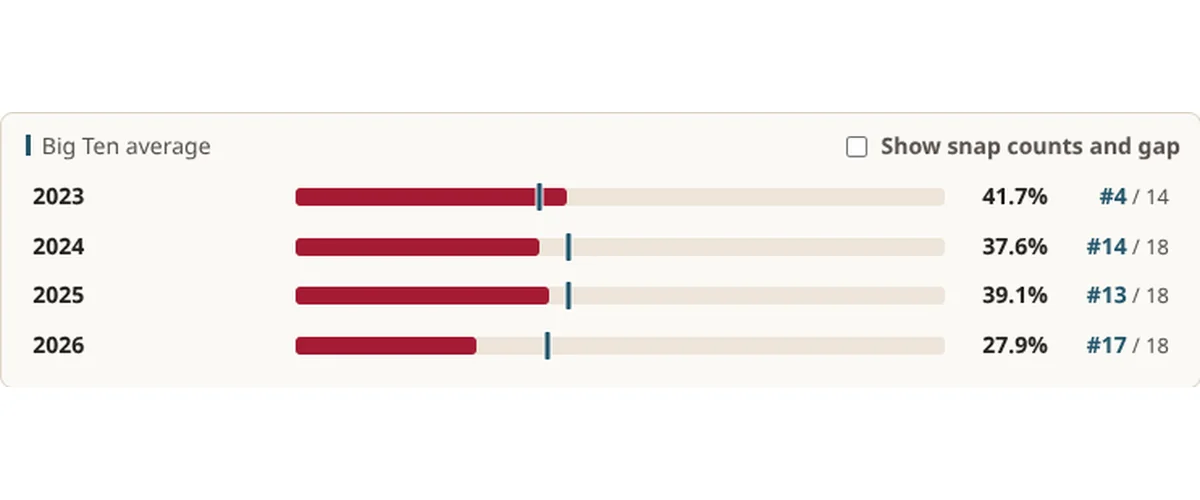
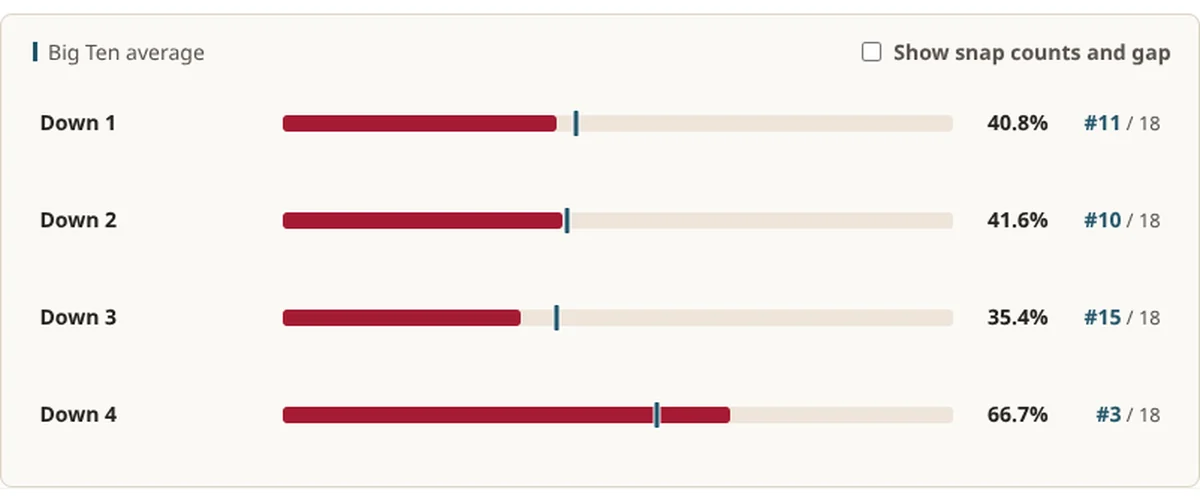
Add recruiting circle visibility and refresh dashboard previews

diff --git a/assets/recruiting/dashboard.js b/assets/recruiting/dashboard.js
@@ -32,8 +32,10 @@ for(let i=0;i<grid.length;i++){if(grid[i]<.001)continue;const t=Math.pow(Math.mi
 $('pool').textContent=fmt(mapped.length)+' / '+fmt(filtered.length);$('annual').textContent=fmt(viewCount/years);$('coverage').textContent=filtered.length?(mapped.length/filtered.length*100).toFixed(1)+'%':'—';$('peak').textContent=fmt(max);$('scaleNote').textContent=lockedPeak===null?'Scale follows visible region':'Color scale locked';return viewCount;}
 function campusVisible(s){const [x,y]=screen(s.xy);return x>=-50&&x<=W+50&&y>=-50&&y<=H+50;}
 function drawCircle(s){if(!sf.radius)return;const r=circle(s,sf.radius);ctx.beginPath();r.forEach((p,i)=>{let v=screen(world(...p));if(i)ctx.lineTo(...v);else ctx.moveTo(...v);});ctx.strokeStyle=s.color;ctx.lineWidth=selected&&s===selected?3.5:2;ctx.globalAlpha=.8;ctx.stroke();ctx.globalAlpha=1;}
-function drawSchools(){const mode=$('schoolMode').value,show=mode==='on'||mode==='auto'&&z>=5.5;const ss=show?schools.filter(s=>campusVisible(s)||s===selected):[];ss.forEach(drawCircle);for(const s of ss){const [x,y]=screen(s.xy);ctx.beginPath();ctx.arc(x,y,6,0,Math.PI*2);ctx.fillStyle=s.color;ctx.fill();ctx.strokeStyle='white';ctx.lineWidth=2;ctx.stroke();ctx.font='600 12px system-ui';ctx.lineWidth=4;ctx.strokeStyle='white';ctx.strokeText(s.name,x+10,y-7);ctx.fillStyle=s.color;ctx.fillText(s.name,x+10,y-7);hits.push({kind:'school',s,x,y});}
-$('zoomNote').textContent=show?`Campus circles: ${sf.radius} miles · ${yearsLabel()}`:'Zoom in to see campuses and distance circles';return ss;}
+function drawSchools(){const mode=$('schoolMode').value,show=mode==='on'||mode==='auto'&&z>=5.5;const ss=show?schools.filter(s=>campusVisible(s)||s===selected):[];const circles=$('circles').checked&&sf.radius>0;if(circles)ss.forEach(drawCircle);for(const s of ss){const [x,y]=screen(s.xy);ctx.beginPath();ctx.arc(x,y,6,0,Math.PI*2);ctx.fillStyle=s.color;ctx.fill();ctx.strokeStyle='white';ctx.lineWidth=2;ctx.stroke();ctx.font='600 12px system-ui';ctx.lineWidth=4;ctx.strokeStyle='white';ctx.strokeText(s.name,x+10,y-7);ctx.fillStyle=s.color;ctx.fillText(s.name,x+10,y-7);hits.push({kind:'school',s,x,y});}
+$('zoomNote').textContent=show
+  ? (circles?`Campus circles: ${sf.radius} miles`:'Campus markers')+' · '+yearsLabel()
+  : 'Zoom in to see campuses';return ss;}
 function drawRecruits(){if(z<6.5||!$('points').checked)return;const cities=new Map();for(const p of mapped){let [x,y]=screen(p.xy);if(x<0||x>W||y<0||y>H)continue;let key=p.lat+','+p.lon;if(!cities.has(key))cities.set(key,{x,y,ps:[]});cities.get(key).ps.push(p);}for(const c of cities.values()){ctx.beginPath();ctx.arc(c.x,c.y,Math.min(10,2.5+Math.sqrt(c.ps.length)),0,Math.PI*2);ctx.fillStyle='#5b1221';ctx.fill();ctx.strokeStyle='white';ctx.lineWidth=.7;ctx.stroke();hits.push({kind:'recruits',...c});}}
 function table(ss){if(!statCache)statCache=new Map();const tableSchools=ss.length?ss:selected?[selected]:[];const stats=tableSchools.map(s=>{if(!statCache.has(s.name))statCache.set(s.name,schoolStats(s));return statCache.get(s.name);}).sort((a,b)=>b.n-a.n);$('schoolRows').innerHTML=stats.map(v=>`<tr><td><button data-school="${esc(v.school.name)}">${esc(v.school.name)}</button></td><td>${fmt(v.per)}</td><td>${fmt(v.captured/years)}</td><td>${v.capture===null?'—':(v.capture*100).toFixed(1)+'%'}</td></tr>`).join('');$('detailTitle').textContent=`School access · ${sf.radius}-mile radius`;$('detailHint').textContent=stats.length?`All counts use ${yearsLabel()}. A recruit may fall inside multiple schools’ circles.`:'Campuses appear at regional zoom. You can also select a school or choose “Always show.”';}
 function render(){if(!W||!H)return;ctx.clearRect(0,0,W,H);ctx.fillStyle='#e9eff4';ctx.fillRect(0,0,W,H);statePaths();ctx.fillStyle='#faf9ef';ctx.fill();density();statePaths();ctx.strokeStyle='#8f9ba6';ctx.lineWidth=.7;ctx.stroke();hits=[];drawRecruits();const ss=drawSchools();table(ss);drawScale();saveHash();}
@@ -91,15 +93,15 @@ canvas.addEventListener('pointermove',e=>{if(lastTouches.has(e.pointerId)){const
 canvas.addEventListener('pointerup',e=>{if(drag&&!drag.moved){const r=canvas.getBoundingClientRect(),h=hit(e.clientX-r.left,e.clientY-r.top);if(h?.kind==='school')showSchool(h.s);else if(h)showPlayers(h.ps);}lastTouches.delete(e.pointerId);if(!lastTouches.size)drag=null;});canvas.addEventListener('pointercancel',e=>{lastTouches.delete(e.pointerId);drag=null;});canvas.addEventListener('pointerleave',()=>{$('tooltip').hidden=true;});
 canvas.addEventListener('keydown',e=>{const moves={ArrowLeft:[-.15,0],ArrowRight:[.15,0],ArrowUp:[0,-.15],ArrowDown:[0,.15]};if(moves[e.key]){e.preventDefault();cx+=moves[e.key][0]*W/(256*2**z);cy+=moves[e.key][1]*H/(256*2**z);renderSoon();}else if(e.key==='+'||e.key==='=')zoom(.5);else if(e.key==='-')zoom(-.5);});
 $('plus').onclick=()=>zoom(.6);$('minus').onclick=()=>zoom(-.6);$('reset').onclick=()=>{$('region').value='us';goPreset('us');};$('region').onchange=()=>goPreset($('region').value);$('school').onchange=()=>focusSchool($('school').value);$('schoolRows').onclick=e=>{if(e.target.dataset.school)focusSchool(e.target.dataset.school);};
-for(const id of ['threshold','first','last','bandwidth','radius','inside'])$(id).onchange=readFilters;for(const id of ['schoolMode','points'])$(id).onchange=renderSoon;$('scale').onchange=()=>{lockedPeak=$('scale').value==='lock'?currentPeak:null;renderSoon();};
+for(const id of ['threshold','first','last','bandwidth','radius','inside'])$(id).onchange=readFilters;for(const id of ['schoolMode','points','circles'])$(id).onchange=renderSoon;$('scale').onchange=()=>{lockedPeak=$('scale').value==='lock'?currentPeak:null;renderSoon();};
 $('download').onclick=()=>{const fields=['class_year','player_name','national_rank','composite_rating','composite_stars','position','high_school_name','listed_city','listed_state','latitude','longitude','commitment_school','player_url'];const quote=v=>'"'+String(v??'').replaceAll('"','""')+'"';const text=[fields,...filtered.map(p=>[p.year,p.name,p.rank,p.rating,p.stars,p.position,p.hs,p.city,p.state,p.lat,p.lon,p.commit,p.url])].map(r=>r.map(quote).join(',')).join('\r\n');const a=document.createElement('a');a.href=URL.createObjectURL(new Blob([text],{type:'text/csv;charset=utf-8'}));a.download='recruits_'+sf.type+'_'+yearsLabel()+'.csv';a.click();setTimeout(()=>URL.revokeObjectURL(a.href),1000);$('message').textContent='Exported '+filtered.length+' filtered recruits (all regions).';};
-function saveHash(){const p=new URLSearchParams({t:sf.type,a:sf.first,b:sf.last,z:z.toFixed(2),lon:inverse(cx,cy)[0].toFixed(4),lat:inverse(cx,cy)[1].toFixed(4),r:sf.radius,s:sf.school,i:sf.inside?'1':'0',bw:sf.bandwidth,c:$('schoolMode').value,p:$('points').checked?'1':'0',sc:$('scale').value,pk:lockedPeak===null?'':lockedPeak.toFixed(4)});history.replaceState(null,'','#'+p);}
+function saveHash(){const p=new URLSearchParams({t:sf.type,a:sf.first,b:sf.last,z:z.toFixed(2),lon:inverse(cx,cy)[0].toFixed(4),lat:inverse(cx,cy)[1].toFixed(4),r:sf.radius,s:sf.school,i:sf.inside?'1':'0',bw:sf.bandwidth,c:$('schoolMode').value,circles:$('circles').checked?'1':'0',p:$('points').checked?'1':'0',sc:$('scale').value,pk:lockedPeak===null?'':lockedPeak.toFixed(4)});history.replaceState(null,'','#'+p);}
 $('reset-filters').onclick=()=>{
   for(const [id,value] of Object.entries({threshold:'blue',first:'2010',last:'2026',bandwidth:'25',radius:'100',school:'',scale:'auto',schoolMode:'auto',region:'us'})) $(id).value=value;
-  $('inside').checked=false;$('points').checked=true;
+  $('inside').checked=false;$('points').checked=true;$('circles').checked=true;
   readFilters();goPreset('us');
 };
 $('share').onclick=async()=>{try{await navigator.clipboard.writeText(location.href);$('message').textContent='View link copied.';}catch{window.prompt('Copy view link',location.href);}};
-function restore(){let p=new URLSearchParams(location.hash.slice(1));const opts={threshold:p.get('t'),first:p.get('a'),last:p.get('b'),radius:p.get('r'),school:p.get('s'),bandwidth:p.get('bw'),schoolMode:p.get('c')};for(const [id,value]of Object.entries(opts))if(value!==null&&[...$(id).options].some(o=>o.value===value))$(id).value=value;$('inside').checked=p.get('i')==='1';if(p.has('p'))$('points').checked=p.get('p')==='1';if(p.has('z')&&p.has('lon')&&p.has('lat')&&[p.get('z'),p.get('lon'),p.get('lat')].every(v=>Number.isFinite(+v))){z=Math.max(2,Math.min(11,+p.get('z')));[cx,cy]=world(+p.get('lon'),+p.get('lat'));}else{const rect=canvas.getBoundingClientRect();z=3.5+Math.log2(Math.max(.45,rect.width/1100));}}
+function restore(){let p=new URLSearchParams(location.hash.slice(1));const opts={threshold:p.get('t'),first:p.get('a'),last:p.get('b'),radius:p.get('r'),school:p.get('s'),bandwidth:p.get('bw'),schoolMode:p.get('c')};for(const [id,value]of Object.entries(opts))if(value!==null&&[...$(id).options].some(o=>o.value===value))$(id).value=value;$('inside').checked=p.get('i')==='1';$('circles').checked=p.get('circles')!=='0';if(p.has('p'))$('points').checked=p.get('p')==='1';if(p.has('z')&&p.has('lon')&&p.has('lat')&&[p.get('z'),p.get('lon'),p.get('lat')].every(v=>Number.isFinite(+v))){z=Math.max(2,Math.min(11,+p.get('z')));[cx,cy]=world(+p.get('lon'),+p.get('lat'));}else{const rect=canvas.getBoundingClientRect();z=3.5+Math.log2(Math.max(.45,rect.width/1100));}}
 const savedScale=new URLSearchParams(location.hash.slice(1));restore();readFilters();if(savedScale.get('sc')==='lock'&&+savedScale.get('pk')>0){lockedPeak=+savedScale.get('pk');$('scale').value='lock';}new ResizeObserver(resize).observe(canvas);window.addEventListener('hashchange',()=>{restore();readFilters();});
 })();

diff --git a/assets/recruiting/dashboard.html b/assets/recruiting/dashboard.html
@@ -2,7 +2,7 @@
 <header><a href="../../" target="_top" class="brand">TERRAPINALYTICS</a><h1>Recruiting geography</h1><span>2010–2026</span></header>
 <main><aside><div class="section"><label for="threshold">Recruiting threshold</label><select id="threshold"><option value="blue">4★+ bluechips</option><option value="five">5★ only</option><option value="100">Top 100</option><option value="300">Top 300</option><option value="500">Top 500</option><option value="1000">Top 1000</option></select><div class="two"><label>First class<select id="first"></select></label><label>Last class<select id="last"></select></label></div></div>
 <div class="section"><label for="region">Go to region</label><select id="region"><option value="us">United States</option><option value="dmv">DC / Maryland / Virginia</option><option value="nc">North Carolina</option><option value="texas">Texas</option><option value="southeast">Southeast</option><option value="california">California</option><option value="hawaii">Hawaii</option><option value="alaska">Alaska</option></select></div>
-<div class="section"><label for="school">Focus on school</label><select id="school"><option value="">All power schools + Notre Dame</option></select><div id="school-distance" hidden><label for="radius">Circle radius</label><select id="radius"><option value="0">Campus markers only</option><option value="50">50 miles</option><option value="100" selected>100 miles</option><option value="150">150 miles</option><option value="250">250 miles</option><option value="500">500 miles</option></select><label class="check"><input type="checkbox" id="inside"> Filter recruits to selected school’s circle</label></div></div>
-<details class="section"><summary>Map settings</summary><label for="schoolMode">Power-school campuses & circles</label><select id="schoolMode"><option value="auto">Auto · show at regional zoom</option><option value="on">Always show</option><option value="off">Hide</option></select><label for="scale">Heat scale</label><select id="scale"><option value="auto">Hottest visible area</option><option value="lock">Lock current color scale</option></select><label for="bandwidth">Smoothing radius</label><select id="bandwidth"><option value="15">15 miles</option><option value="25" selected>25 miles</option><option value="50">50 miles</option></select><label class="check"><input type="checkbox" id="points" checked> Show recruit locations when zoomed in</label></details><div class="section"><button id="download">Download filtered data</button><button id="reset-filters" type="button">Reset</button><button id="share">Copy view link</button><output id="message" aria-live="polite"></output></div>
+<div class="section"><label class="check"><input type="checkbox" id="circles" checked> Show distance circles</label><label for="school">Focus on school</label><select id="school"><option value="">All power schools + Notre Dame</option></select><div id="school-distance" hidden><label for="radius">Circle radius</label><select id="radius"><option value="0">Campus markers only</option><option value="50">50 miles</option><option value="100" selected>100 miles</option><option value="150">150 miles</option><option value="250">250 miles</option><option value="500">500 miles</option></select><label class="check"><input type="checkbox" id="inside"> Filter recruits to selected school’s circle</label></div></div>
+<details class="section"><summary>Map settings</summary><label for="schoolMode">Power-school campuses</label><select id="schoolMode"><option value="auto">Auto · show at regional zoom</option><option value="on">Always show</option><option value="off">Hide</option></select><label for="scale">Heat scale</label><select id="scale"><option value="auto">Hottest visible area</option><option value="lock">Lock current color scale</option></select><label for="bandwidth">Smoothing radius</label><select id="bandwidth"><option value="15">15 miles</option><option value="25" selected>25 miles</option><option value="50">50 miles</option></select><label class="check"><input type="checkbox" id="points" checked> Show recruit locations when zoomed in</label></details><div class="section"><button id="download">Download filtered data</button><button id="reset-filters" type="button">Reset</button><button id="share">Copy view link</button><output id="message" aria-live="polite"></output></div>
 <details><summary>Data & method</summary><p>247Sports Composite, historical listings collected October 28, 2026. National-rank filters include ties. 4★+ uses displayed Composite stars.</p><p>Approximate listed high-school cities, not verified hometowns. Academy concentrations count where the school is located. Missing coordinates are excluded from heat and circle counts.</p><p>Heat shows smoothed annual recruits per 10,000 square miles. Gaussian smoothing uses the selected radius as its standard deviation, cut off at three times that radius. The color scale defaults to the hottest visible cell; lock it to compare regions. Density extends across coasts and borders.</p><p>Circles use great-circle miles, not driving distance or exclusive recruiting territory. School membership is fixed to the dataset’s 67 power programs plus Notre Dame; campuses are approximate. Overlapping circles count a recruit for each school.</p><p>Top-1000 coverage varies by class; these are observed records, not an assertion that every class has exactly 1,000 players. The 2026 class reflects the source snapshot. Data describe displayed destinations, not independently verified enrollment.</p></details></aside>
-<section class="workspace"><p class="related-article"><a href="../../articles/recruiting-distance.html" target="_top">Read the blue-chip recruiting distance analysis</a></p><div class="metrics" aria-live="polite"><div><strong id="pool">—</strong><span>mapped / filtered recruits</span></div><div><strong id="annual">—</strong><span>in view per year</span></div><div><strong id="coverage">—</strong><span>geocoded coverage</span></div></div><div id="mapbox"><canvas id="map" tabindex="0" role="application" aria-label="Interactive recruiting heat map. Drag to pan, scroll or use plus and minus to zoom. Arrow keys pan."></canvas><div class="mapbuttons"><button id="plus" aria-label="Zoom in">+</button><button id="minus" aria-label="Zoom out">−</button><button id="reset">US</button></div><div id="legend"><div class="ramp"></div><div class="ends"><span>0</span><strong id="peak">—</strong></div><span>recruits / year / 10,000 sq mi</span><small id="scaleNote">Scale follows visible region</small></div><div id="zoomNote">Zoom in to see campuses and distance circles</div><div id="tooltip" hidden></div></div><div class="below"><div><h2 id="detailTitle">School access</h2><p id="detailHint">Zoom in to compare the schools in view. Click a campus for recruit counts, or a recruit dot for player details.</p><div class="tablewrap"><table><thead><tr><th>School</th><th>Within circle / yr</th><th>To school / yr</th><th>Capture</th></tr></thead><tbody id="schoolRows"></tbody></table></div></div><div id="details"><h2>Explore the map</h2><p>Drag to pan. Scroll, pinch, double-click or use + / − to zoom. Power-school circles appear automatically at regional zoom.</p><p>Counts are annual averages across the selected classes. “To school” counts use displayed commitments among recruits inside that school’s circle.</p></div></div></section></main><script src="data.js"></script><script src="../peer-context.js"></script><script src="dashboard.js"></script></body></html>
+<section class="workspace"><p class="related-article"><a href="../../articles/recruiting-distance.html" target="_top">Read the blue-chip recruiting distance analysis</a></p><div class="metrics" aria-live="polite"><div><strong id="pool">—</strong><span>mapped / filtered recruits</span></div><div><strong id="annual">—</strong><span>in view per year</span></div><div><strong id="coverage">—</strong><span>geocoded coverage</span></div></div><div id="mapbox"><canvas id="map" tabindex="0" role="application" aria-label="Interactive recruiting heat map. Drag to pan, scroll or use plus and minus to zoom. Arrow keys pan."></canvas><div class="mapbuttons"><button id="plus" aria-label="Zoom in">+</button><button id="minus" aria-label="Zoom out">−</button><button id="reset">US</button></div><div id="legend"><div class="ramp"></div><div class="ends"><span>0</span><strong id="peak">—</strong></div><span>recruits / year / 10,000 sq mi</span><small id="scaleNote">Scale follows visible region</small></div><div id="zoomNote">Zoom in to see campuses and distance circles</div><div id="tooltip" hidden></div></div><div class="below"><div><h2 id="detailTitle">School access</h2><p id="detailHint">Zoom in to compare the schools in view. Click a campus for recruit counts, or a recruit dot for player details.</p><div class="tablewrap"><table><thead><tr><th>School</th><th>Within circle / yr</th><th>To school / yr</th><th>Capture</th></tr></thead><tbody id="schoolRows"></tbody></table></div></div><div id="details"><h2>Explore the map</h2><p>Drag to pan. Scroll, pinch, double-click or use + / − to zoom. Power-school markers appear automatically at regional zoom. Turn distance circles on or off beside the school filter.</p><p>Counts are annual averages across the selected classes. “To school” counts use displayed commitments among recruits inside that school’s circle.</p></div></div></section></main><script src="data.js"></script><script src="../peer-context.js"></script><script src="dashboard.js"></script></body></html>
